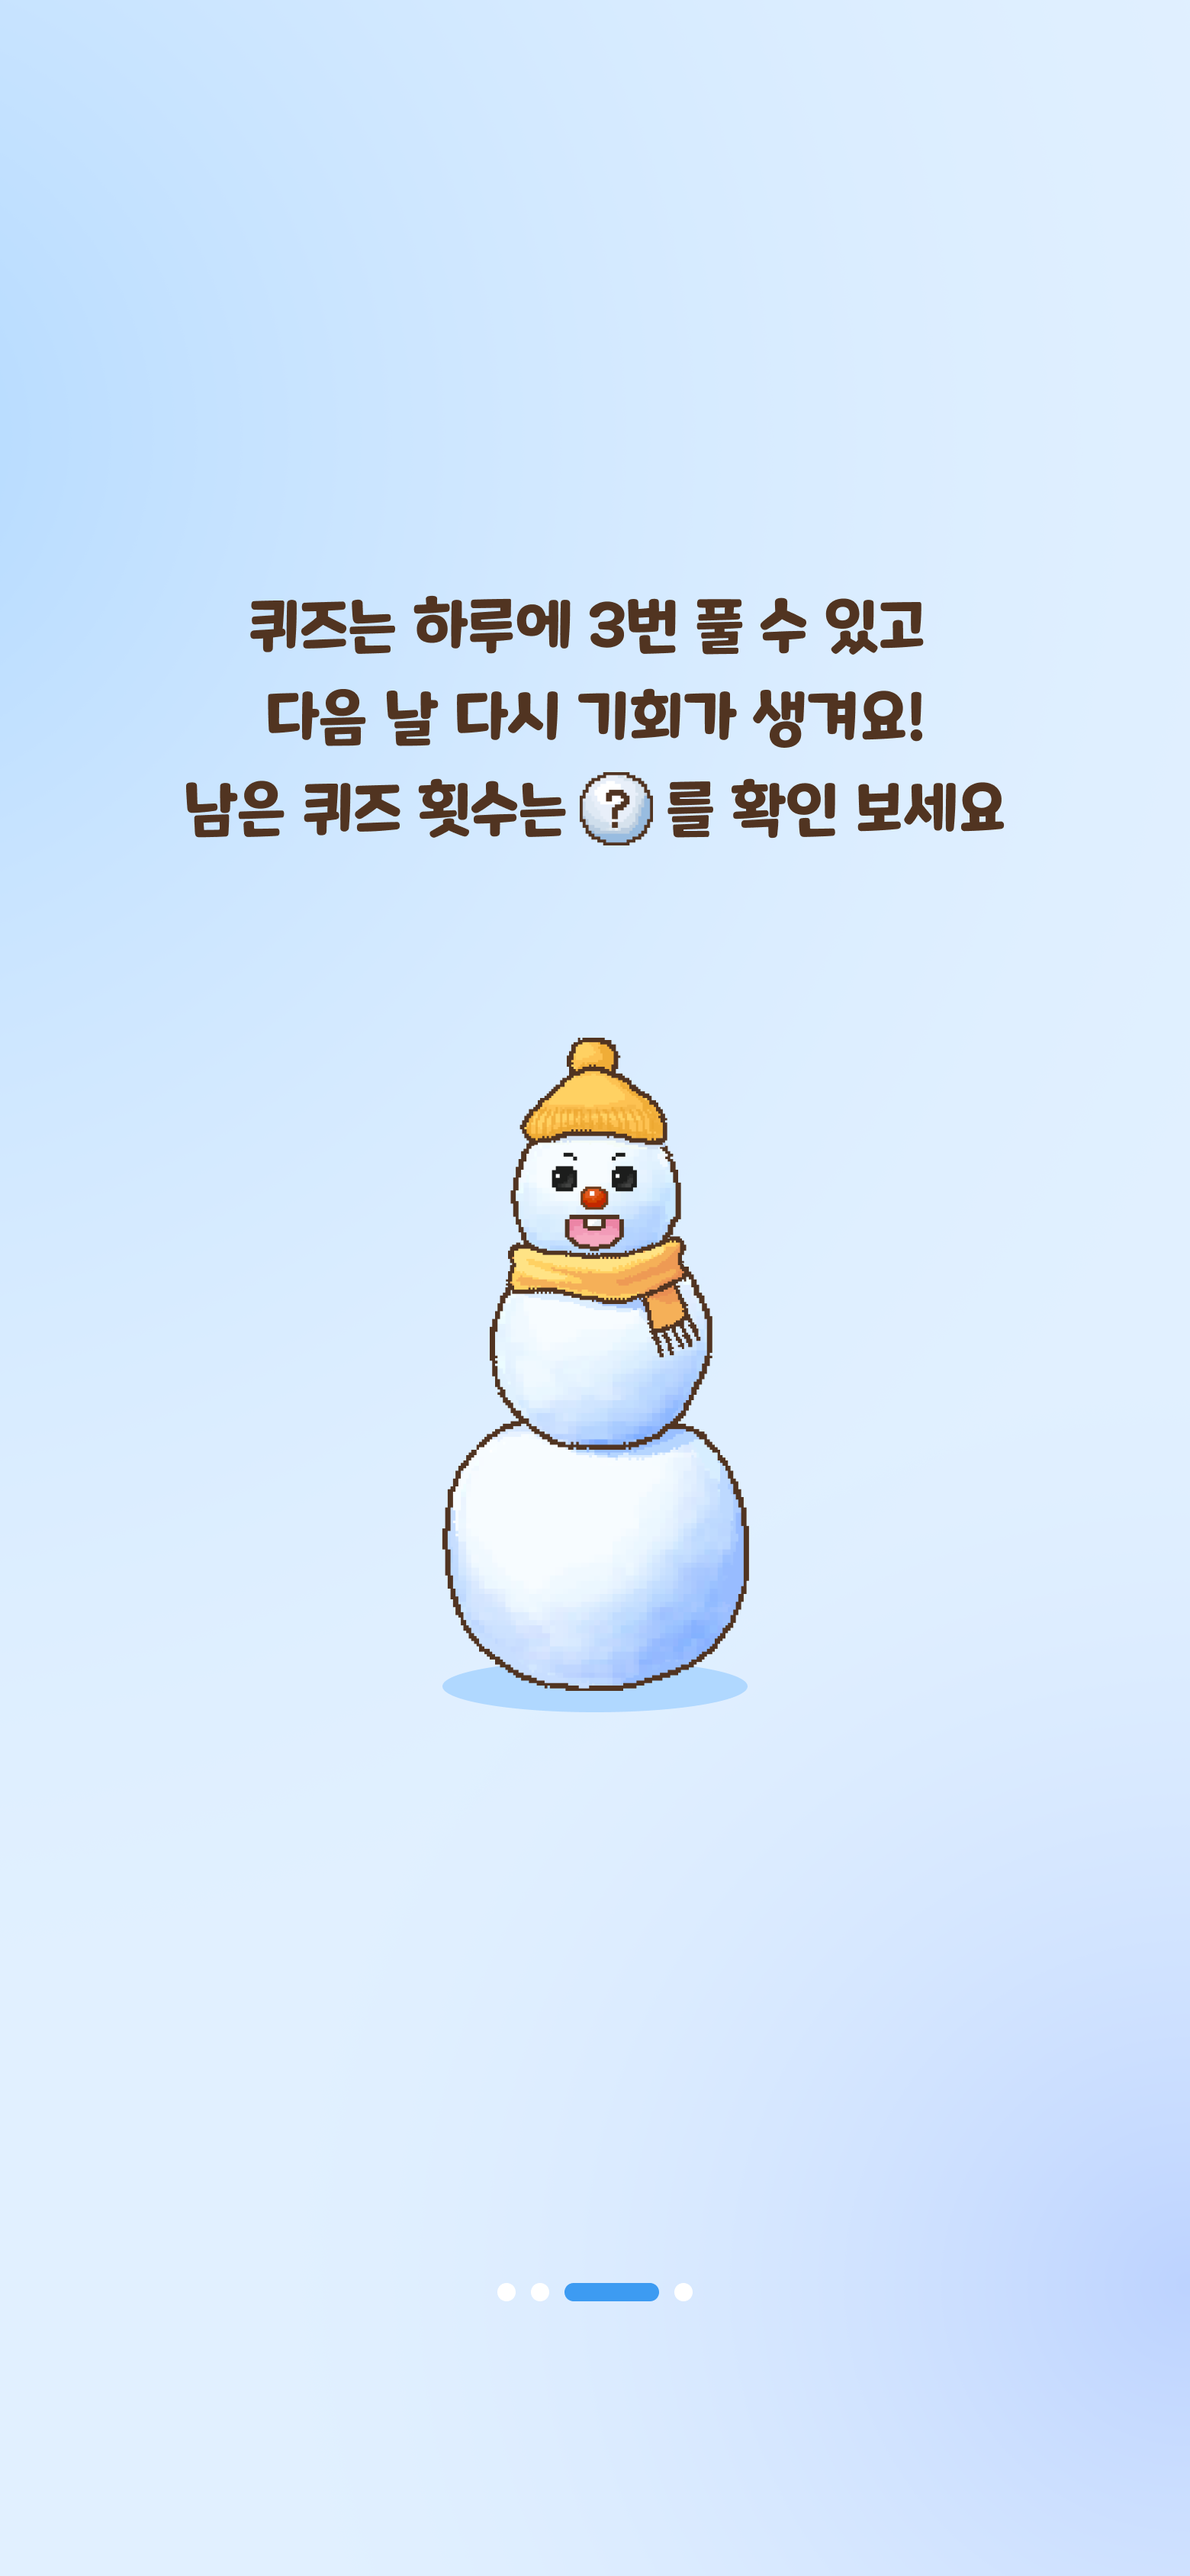
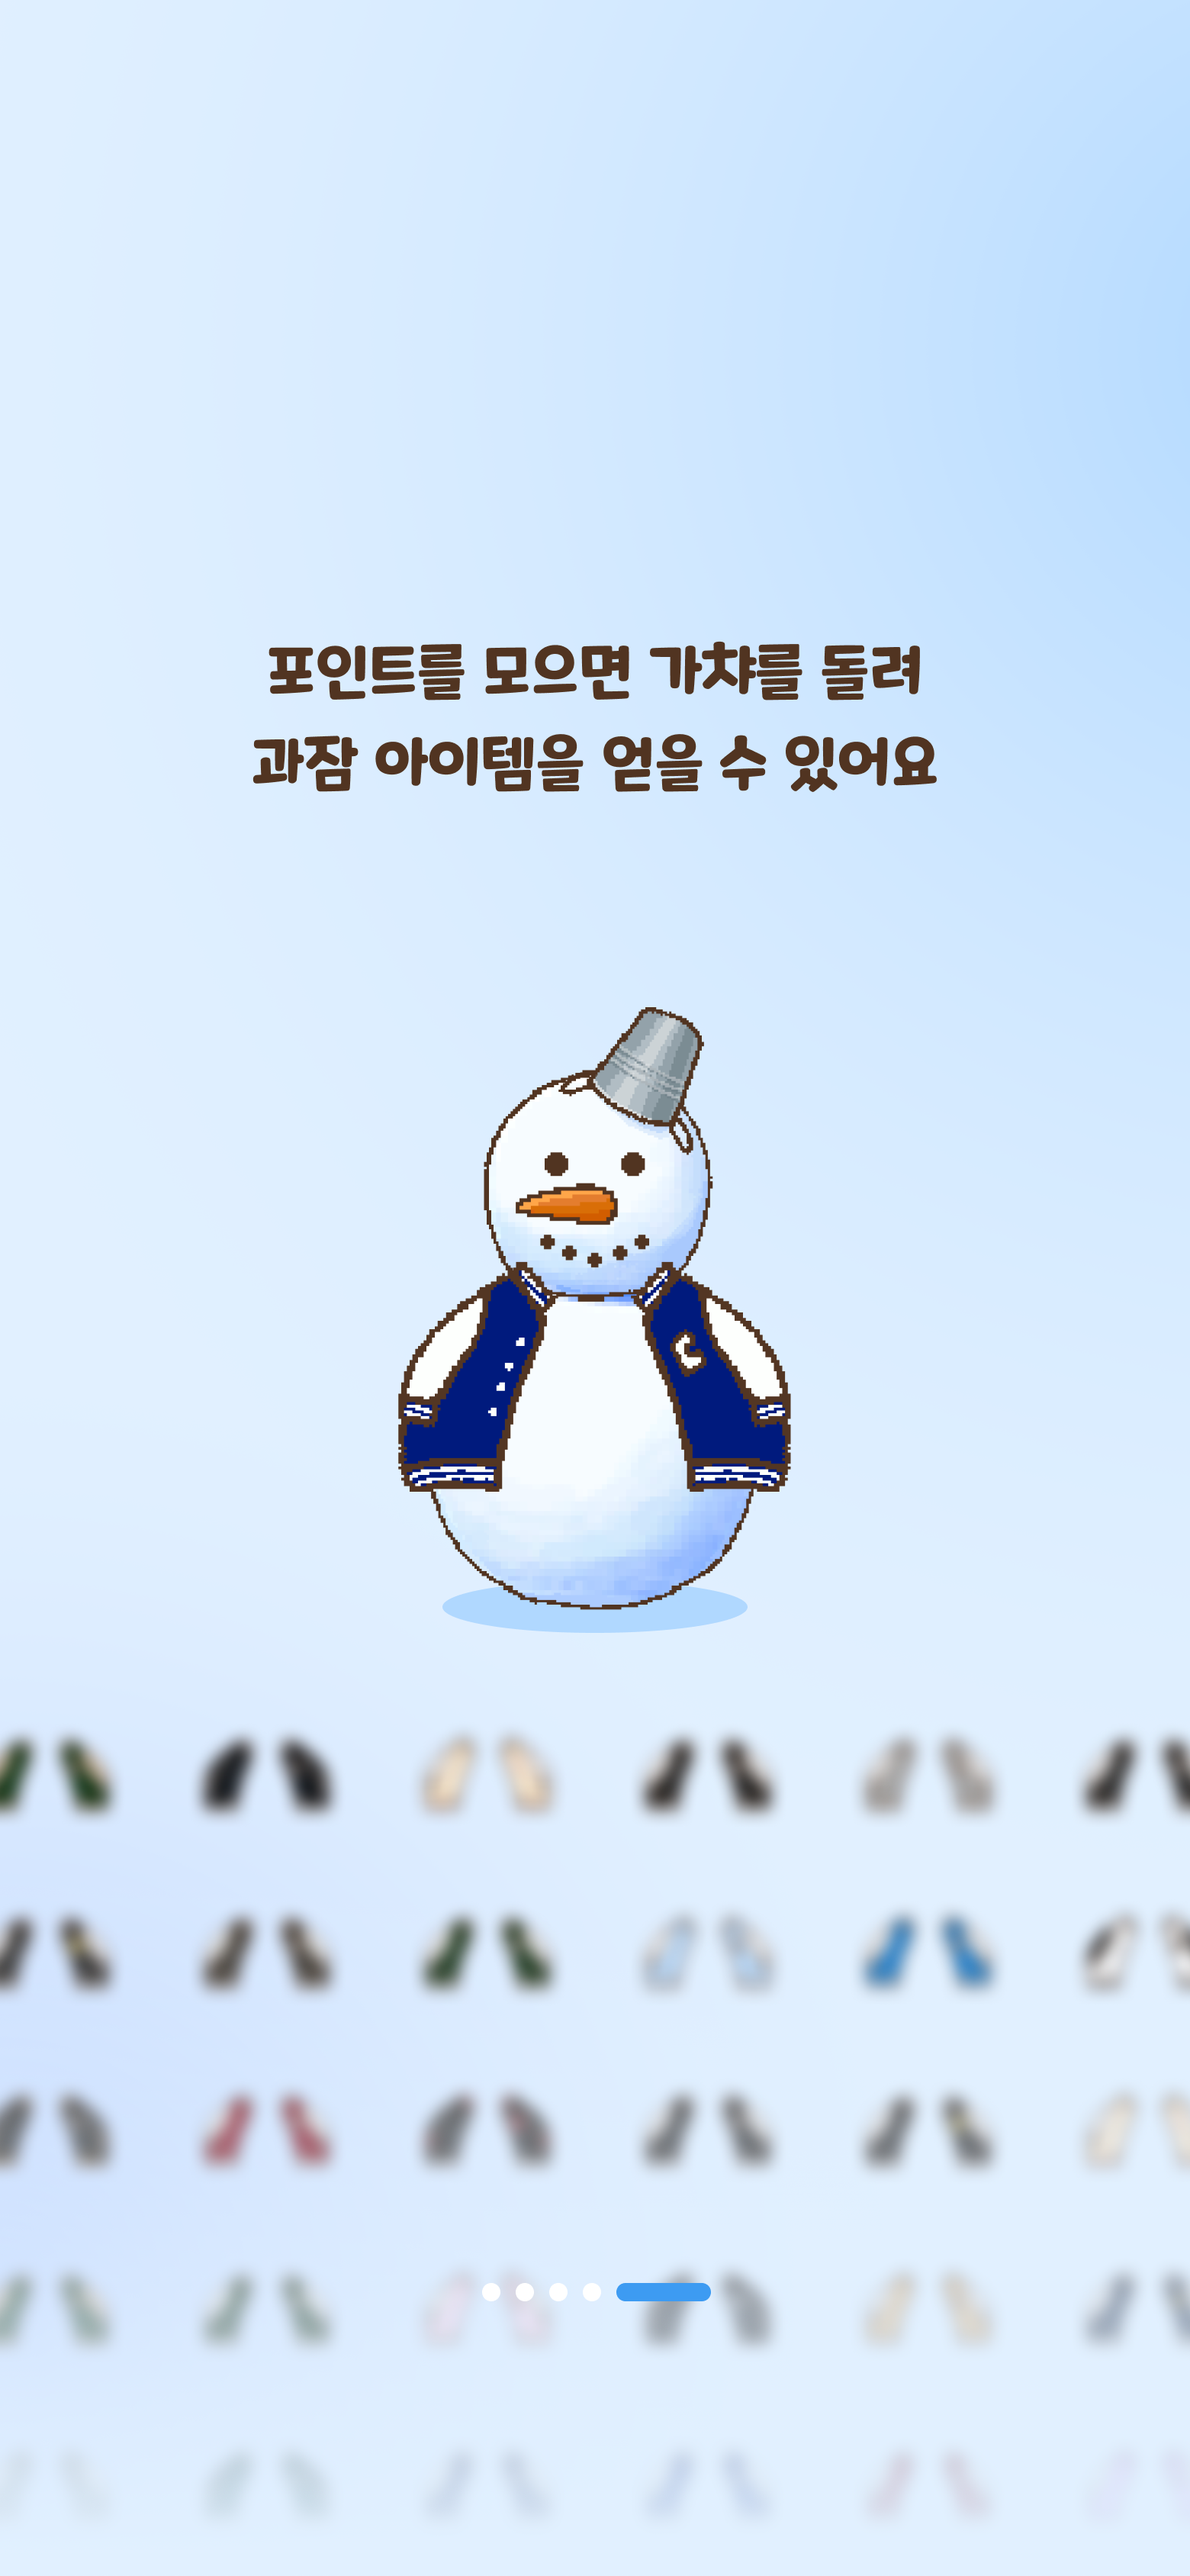
ADD : 온보딩 페이지 수정

diff --git a/src/pages/OnboardingPage.tsx b/src/pages/OnboardingPage.tsx
@@ -15,7 +15,7 @@ const OnboardingPage = () => {
 
   const handleNextClick = () => {
     const numericId = Number(id);
-    if (numericId < 5) {
+    if (numericId < 6) {
       navigate(`/onboarding/${numericId + 1}`);
     }
   };
@@ -26,13 +26,13 @@ const OnboardingPage = () => {
         {(id === "1") && (
           <NoButton />
         )}
-        {(id === "2" || id === "3" || id === "4") && (
+        {(id === "2" || id === "3" || id === "4" || id === "5") && (
           <BackBtn src="/images/etc/leftBtn.png" onClick={handleBackClick}/>
         )}
-        {(id === "1" || id === "2" || id === "3" || id === "4") && (
+        {(id === "1" || id === "2" || id === "3" || id === "4" || id === "5") && (
           <NextBtn src="/images/etc/rightBtn.png" onClick={handleNextClick} />
         )}
-        {(id === "5") && (
+        {(id === "6") && (
             <Button onClick={() => (navigate("/1"))}>눈사람 굴리러 가기</Button>
 
         )}

diff --git a/src/components/HomePage/OnboardingWrapper.tsx b/src/components/HomePage/OnboardingWrapper.tsx
@@ -16,6 +16,7 @@ const OnboardingWrapper: React.FC<{ children?: React.ReactNode }> = ({ children 
         "3": "/images/onboarding/3.png",
         "4": "/images/onboarding/4.png",
         "5": "/images/onboarding/5.png",
+        "6": "/images/onboarding/6.png",
     };
 
     return (
